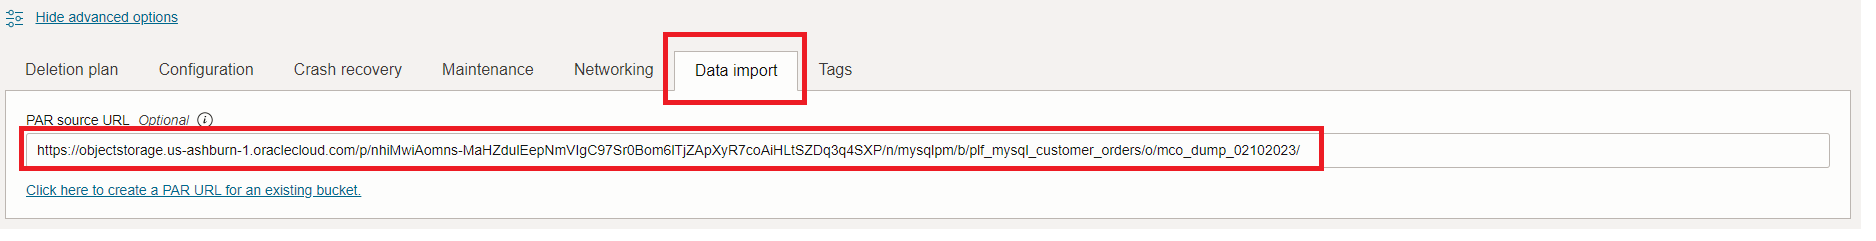
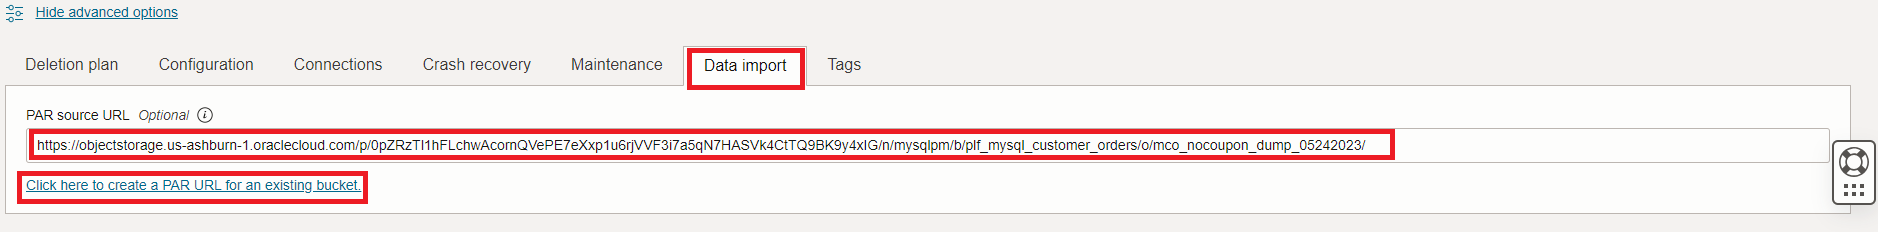
LWMS ID 11389:Made changes requested by Adrienne and Martha
LWMS ID 11389:Made changes requested by Adrienne and Martha
Lab 1 Task 5 Step – 13   New screen -should be connections tab
Lab 1 Taks 5 Step 21 New EndPoint Screen (old first from Lab Doc)
Lab 4 task 1   - done … added explanation
Lab 5 Task 2 -the query times and screens are not identical
Lab 2 Task4 - Step 2: The screenshot and instructions are old
Lab 8 Introduction It is Oracle Analytics Cloud

Changed region(s): [[0.0, 0.4526, 1.0, 0.9353], [0.0, 0.1207, 0.9893, 0.4526], [0.0, 0.0302, 0.0928, 0.1207]]

diff --git a/create-compute-with-mysqlsh/create-compute-with-mysqlsh.md b/create-compute-with-mysqlsh/create-compute-with-mysqlsh.md
@@ -125,7 +125,7 @@ You will need a compute Instance to connect to your brand new MySQL database.
 
 6. Keep the selected Image, Oracle Linux 8
 
-      ![Use Linux OS](./images/compute-oracle-linux.png "compute oracle linux")  
+    ![Use Linux OS](./images/compute-oracle-linux.png "compute oracle linux")  
 
 7. Change the Instance Shape:
     - Click **Change shape** button
@@ -162,11 +162,11 @@ You will need a compute Instance to connect to your brand new MySQL database.
     - Go to Navigation Menu
             Compute
             Instances
-    ![Navigate to Compute ](./images/compute-list.png "compute list")
+        ![Navigate to Compute ](./images/compute-list.png "compute list")
 
     - Click the `heatwave-cient` Instance link
 
-    ![Compute Instance List](./images/compute-running.png "compute public ip")
+        ![Compute Instance List](./images/compute-running.png "compute public ip")
 
     - Copy `heatwave-cient` plus  the `Public IP Address` to the notepad
 
@@ -176,14 +176,14 @@ You will need a compute Instance to connect to your brand new MySQL database.
             Databases
             MySQL
 
-     ![Database list](./images/db-list.png "db list")
+        ![Database list](./images/db-list.png "db list")
 
     - Click the `heatwave-db` Database System link
 
-     ![Active Database](./images/mysql-heatwave-active.png "db active ")
+        ![HeatWave create complete](./images/mysql-heatwave-active.png"mysql heatwave active ")
 
-    - Copy `heatwave-db` plus the `Private IP Address` to the notepad
-
+    - Select the **Connections** tab and copy `heatwave-db` plus the `Private IP Address` to the notepad
+        ![HeatWave create complete connection](./images/mysql-heatwave-connection-tab.png"mysql heatwave connection ")
 3. Indicate the location of the private key you created earlier with **heatwave-client**.
 
     Enter the username **opc** and the Public **IP Address**.

diff --git a/create-heatwave-vcn-db/create-heatwave-vcn-db.md b/create-heatwave-vcn-db/create-heatwave-vcn-db.md
@@ -214,6 +214,7 @@ In this lab, you will be guided through the following tasks:
 7. Create Administrator Credentials
 
     **Enter Username** (write username to notepad for later use)
+    - **Note**: user name is case sensitive so use **admin** to match the the labs' connect string example
 
     **Enter Password** (write password to notepad for later use)
 
@@ -326,11 +327,10 @@ In this lab, you will be guided through the following tasks:
     ![HeatWave create state](./images/mysql-heatwave-creating.png "mysql heatwave creating ")
 
 21. The state 'Active' indicates that the DB System is ready for use
-
-    On heatwave-db Page, check and save the Endpoint (Private IP Address). Later, you will need this value to connect to the Heatwave DB using the MySQL Shell client tool.
-
     ![HeatWave create complete](./images/mysql-heatwave-active.png"mysql heatwave active ")
 
+22. On **heatwave-db** Page,select the **Connections** tab check and save the Endpoint (Private IP Address). Later, you will need this value to connect to the Heatwave DB using the MySQL Shell client tool.
+    ![HeatWave create complete connection](./images/mysql-heatwave-connection-tab.png"mysql heatwave connection ")
 You may now **proceed to the next lab**
 
 ## Acknowledgements

diff --git a/add-heatwave-cluster/add-heatwave-cluster.md b/add-heatwave-cluster/add-heatwave-cluster.md
@@ -62,6 +62,10 @@ In this lab, you will be guided through the following task:
         <copy>util.loadDump("https://objectstorage.us-ashburn-1.oraclecloud.com/p/0pZRzTl1hFLchwAcornQVePE7eXxp1u6rjVVF3i7a5qN7HASVk4CtTQ9BK9y4xIG/n/mysqlpm/b/plf_mysql_customer_orders/o/mco_nocoupon_dump_05242023/", {progressFile: "progress.json", loadIndexes:false})</copy>
         ```
 
+        **Note**: If you get errors like the one below, the **mysql\_customer\_orders** schema already exists. You used the correct PAR Link to load the data during the creation process in Lab1. Don't worry; everything is okay.
+
+         *ERROR: Schema `mysql_customer_orders` already contains a table named customers*
+
     - c. Make sure the **mysql\_customer\_orders** schema was loaded
 
         ```bash

diff --git a/develop/develop.md b/develop/develop.md
@@ -2,7 +2,7 @@
 
 ## Introduction
 
-MySQL HeatWave can easily be used for development tasks with existing Oracle services, such as Oracle Cloud Analytics. New applications can also be created with the LAMP or other software stacks.
+MySQL HeatWave can easily be used for development tasks with existing Oracle services, such as Oracle Analytics Cloud. New applications can also be created with the LAMP or other software stacks.
 
 **Note:** This application code is intended for educational purposes only. It is designed to help developers learn and practice application development skills with MySQL HeatWave on OCI. The code is not designed to be used in a production environment
 

diff --git a/load-db-heatwave-cluster/load-db-heatwave-cluster.md b/load-db-heatwave-cluster/load-db-heatwave-cluster.md
@@ -53,6 +53,16 @@ In this lab, you will be guided through the following task:
 
     ![Cluster load end](./images/load-cluster-end.png "load cluster end")
 
+- Auto Parallel Load command Result highlights:
+
+    - a. Load analysis box: shows the number of tables/columns being loaded
+
+    - b. Capacity estimation box: showis estimated memory and load time
+
+    - c. Loading table boxes: use different thread to load based on the table
+
+    - d. Load summary box: shows the actual load time
+
 7. Verify that the tables are loaded in the HeatWave cluster. Loaded tables have an AVAIL_RPDGSTABSTATE load status.
 
     ```bash
